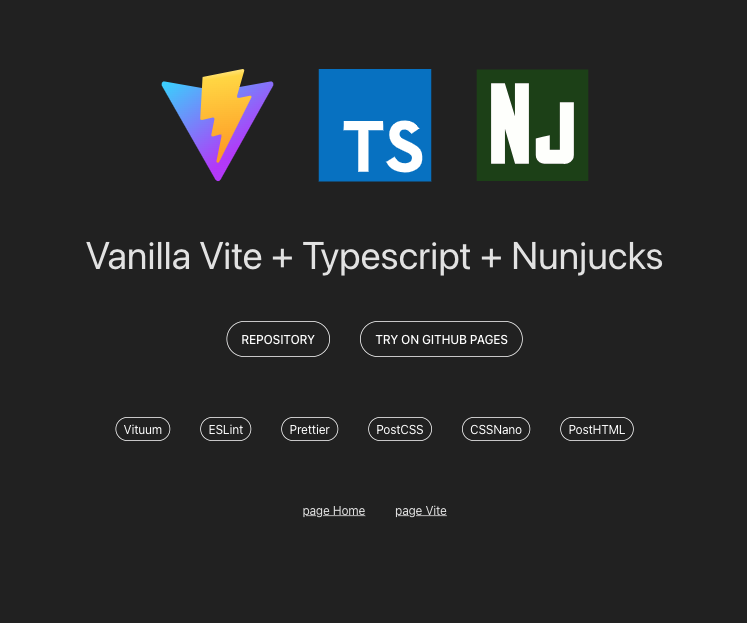
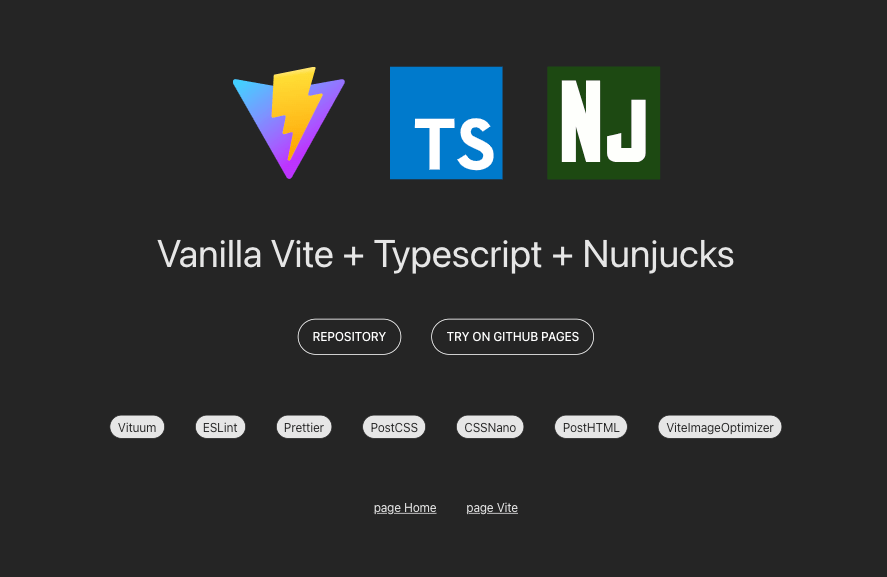
readme

diff --git a/src/components/link/link.scss b/src/components/link/link.scss
@@ -3,8 +3,8 @@
   border-radius: 16px;
   padding: 4px 10px;
   border: 1px solid currentColor;
-  background-color: #242424;
-  color: white;
+  color: #242424;
+  background-color: rgba(255, 255, 255, 0.87);
   transition:
     background-color 0.2s,
     color 0.2s;
@@ -12,19 +12,19 @@
   &:hover,
   &:focus,
   &:focus-visible {
-    color: #242424;
-    background-color: rgba(255, 255, 255, 0.87);
+    color: white;
+    background-color: #242424;
   }
 
   @media (prefers-color-scheme: light) {
-    color: #213547;
-    background-color: #ffffff;
+    color: #ffffff;
+    background-color: #213547;
 
     &:hover,
     &:focus,
     &:focus-visible {
-      color: #ffffff;
-      background-color: #213547;
+      color: #213547;
+      background-color: #ffffff;
     }
   }
 }

diff --git a/src/blocks/dependencies/dependencies.scss b/src/blocks/dependencies/dependencies.scss
@@ -5,6 +5,7 @@
 
   &-list {
     display: flex;
+    flex-wrap: wrap;
     align-items: stretch;
     justify-content: center;
   }

diff --git a/README.md b/README.md
@@ -1,6 +1,13 @@
 # Vite Vanilla TS Nunjucks Template
 
-[//]: # 'TODO: screenshot'
+![GitHub language count](https://img.shields.io/github/languages/count/Sergey-Maxim0v/starter-vite-ts-nunj)
+![GitHub top language](https://img.shields.io/github/languages/top/Sergey-Maxim0v/starter-vite-ts-nunj)
+![GitHub repo size](https://img.shields.io/github/repo-size/Sergey-Maxim0v/starter-vite-ts-nunj)
+![GitHub code size in bytes](https://img.shields.io/github/languages/code-size/Sergey-Maxim0v/starter-vite-ts-nunj)
+
+![GitHub last commit](https://img.shields.io/github/last-commit/Sergey-Maxim0v/starter-vite-ts-nunj)
+
+---
 
 ![screenshot](public/screenshot.png)
 
@@ -19,7 +26,91 @@ It's already equipped with standard development tools like ESLint and Prettier.
 
 - **[SASS](https://sass-lang.com/)**
 
+- **[ESLint](https://eslint.org/):** An open-source JavaScript linting utility that helps maintain a consistent code style.
+
+- **[Prettier](https://prettier.io/):** An opinionated code formatter that enforces a consistent style across your project.
+
+- **[PostCSS](https://postcss.org/):** PostCSS provides a way to transform CSS with JavaScript.
+
+- **[CSSNano](https://cssnano.co/):** A tool that helps to compress and optimize CSS files.
+
+- **[PostHTML](https://vituum.dev/plugins/posthtml):** PostHTML provides a way to transform HTML with JavaScript.
+
+- **[ViteImageOptimizer](https://github.com/FatehAK/vite-plugin-image-optimizer):** Optimizing images using [Sharp.js](https://github.com/lovell/sharp) and [SVGO](https://github.com/svg/svgo).
+
 - **[the-new-css-reset](https://elad2412.github.io/the-new-css-reset/):** A package that resets some of the default, user agent based, styles.
+
+---
+
+## Scripts
+
+```bash
+# Start the development server
+npm run dev
+```
+
+```bash
+# Build for production
+npm run build
+```
+
+```bash
+# Preview the build
+npm run preview
+```
+
+```bash
+# Formats your code in a consistent, predefined style using Prettier
+npm run format
+```
+
+```bash
+# Tries to automatically fix any linting errors present in your code
+npm run eslint
+```
+
+```bash
+# Formats your code and automatically fix any linting errors
+npm run lint
+```
+---
+
+## Folder Structure
+
+This is the structure of the project:
+
+```plaintext
+/
+├── public                       # Public assets and resources
+├── src                          # Source code
+│   ├── assets                   # General assets for your project
+│   │   ├── fonts                
+│   │   ├── images               
+│   │   ├── svg                  
+│   ├── blocks                   # Independent page sections
+│   │   ├── block                # Block directiry
+│   │   │   ├──  block.njk       # Block
+│   │   │   ├──  block.scss      # Styles for block
+│   ├── components               # Reusable page components
+│   │   ├── component            # Component directiry
+│   │   │   ├──  component.njk   # Component
+│   │   │   ├──  component.scss  # Styles for component
+│   ├── extends                  # njk page templates
+│   ├── pages                    # HTML/njk page files
+│   ├── scripts                  # Typescript files of your project
+│   ├── styles                   # SCSS/CSS styles for your project
+│   │   ├── pages                # SCSS styles for pages
+│   │   ├── global.scss          # Global styles
+│   │   ├── index.scss           # All styles are imported into this file
+├── .eslintignore                # Files to be ignored by ESLint
+├── .eslintrc.json               # Configuration for ESLint
+├── .gitignore                   # Files and folders to be ignored by Git
+├── .prettierignore              # Files to be ignored by Prettier
+├── .prettierrc                  # Configuration for Prettier
+├── package.json                 # Defines your project and its dependencies
+├── README.md                    # This file
+├── vite.config.js               # Configuration for Vite
+```
 
 ---
 
@@ -32,3 +123,5 @@ How to add syntax highlighting to Nunjucks template files in IntelliJ IDEA/Webst
 Now all `.njk` files are parsed as Twig and you have support for Nunjucks.
 
 ---
+
+Happy coding! 👨💻
